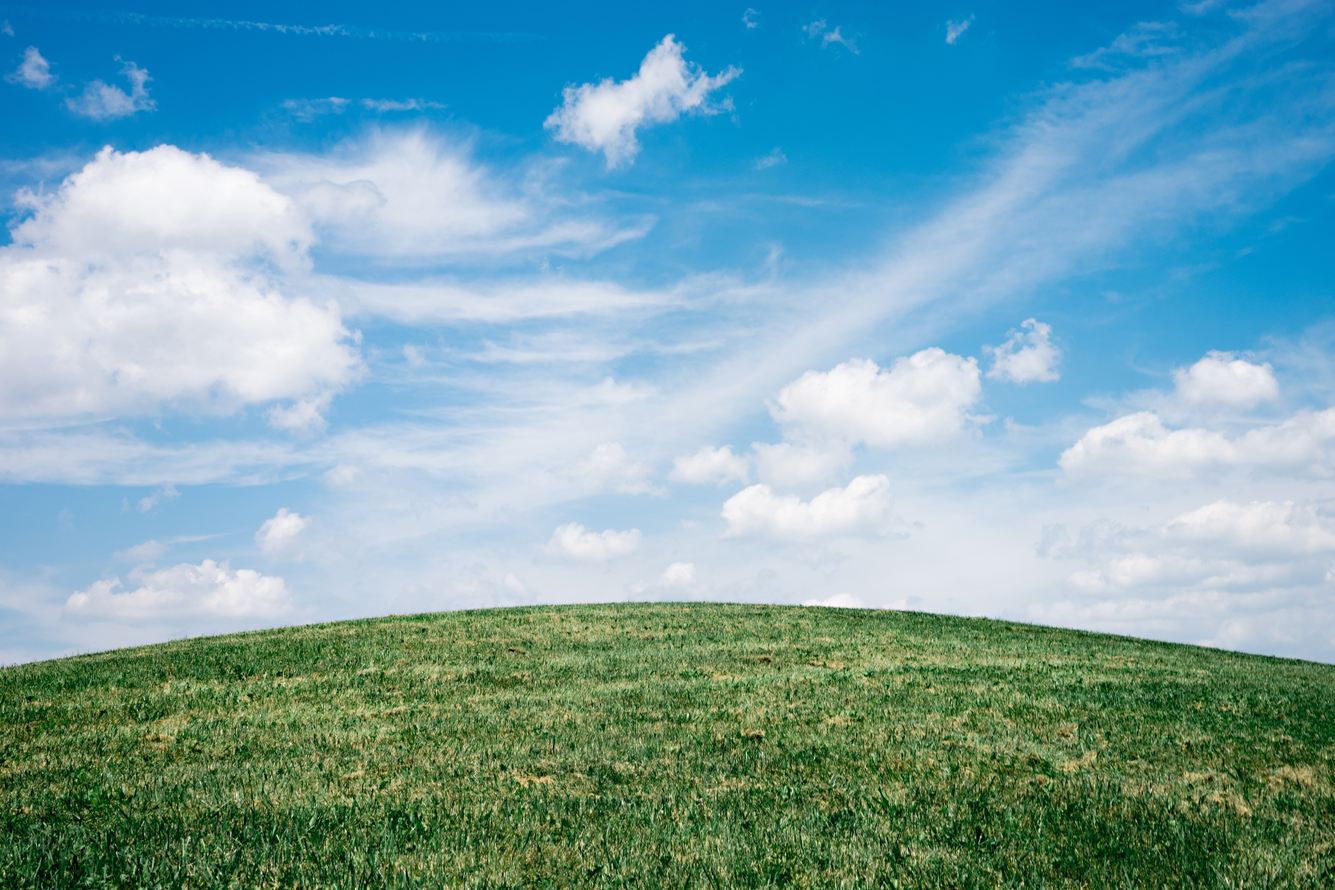
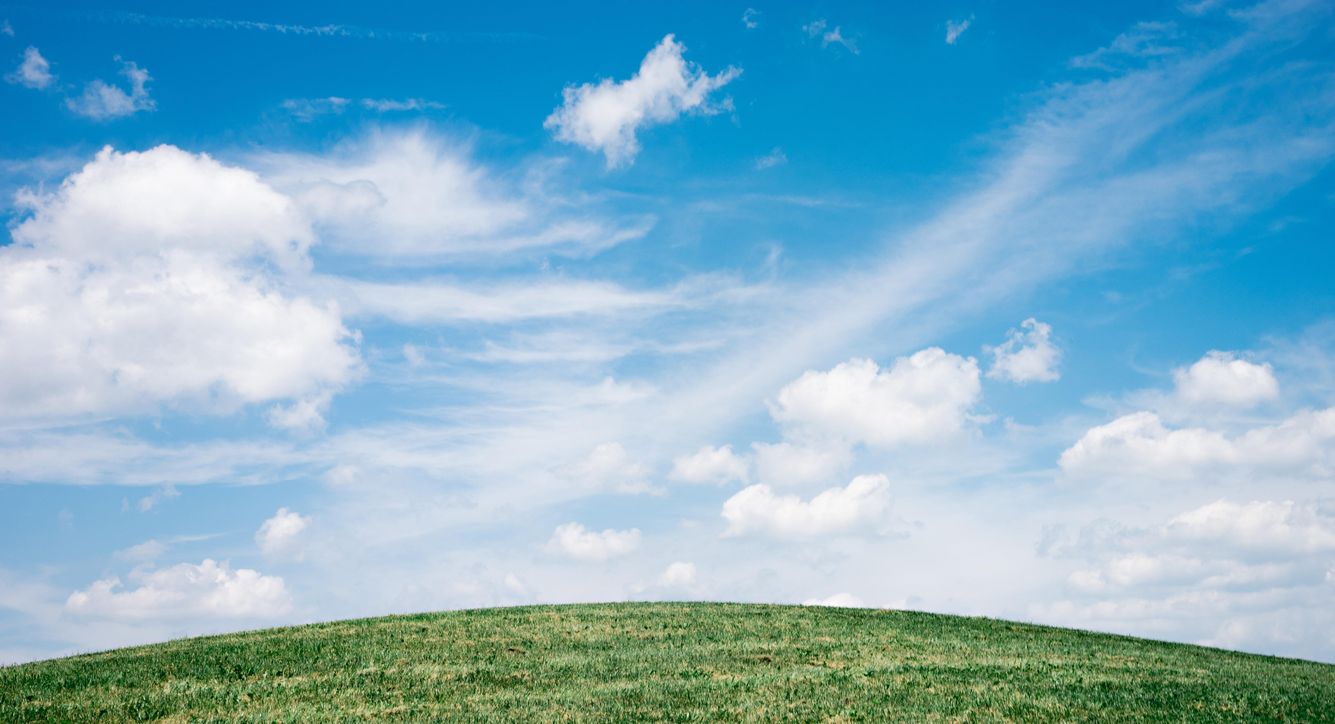
change background

diff --git a/src/App.vue b/src/App.vue
@@ -58,9 +58,9 @@ html {
 body {
   max-height: 108%;
   width: 100%;
-  background-image: url("assets/background.jpg");
+  background-image: url("assets/background2.jpg");
   background-repeat: no-repeat;
-  background-position: 100% 20%;
+  background-position: bottom right;
   background-size: cover;
 }
 .wrapper {

diff --git a/src/components/Footer.vue b/src/components/Footer.vue
@@ -53,7 +53,7 @@ export default {
 .footer {
   box-sizing: border-box;
   width: 100%;
-  height: 16vh;
+  height: 16.5vh;
   padding-top: 1.5vh;
   padding-right: 2vh;
   padding-left: 2vh;
